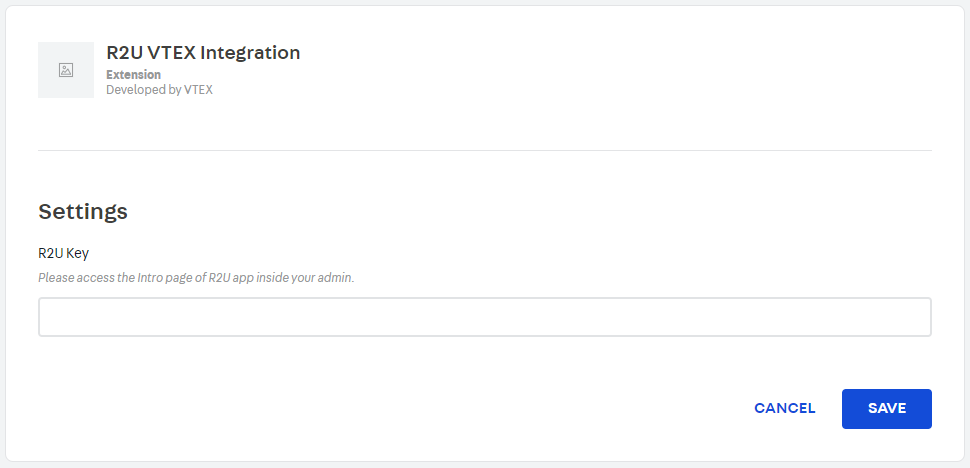
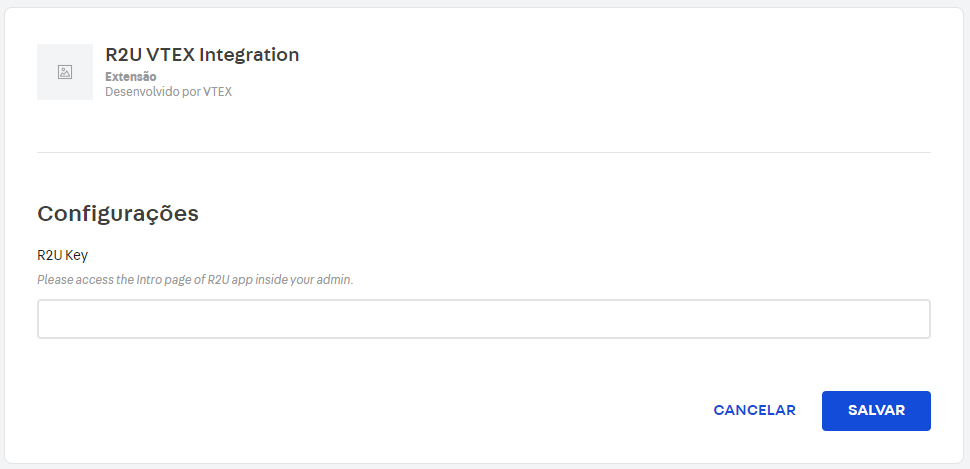
Add VTEX Guide

diff --git a/i18n/pt/docusaurus-plugin-content-docs/current/guides/vtex/getting-started.md b/i18n/pt/docusaurus-plugin-content-docs/current/guides/vtex/getting-started.md
@@ -1,19 +1,19 @@
 ---
-title: Getting started
+title: Introdução
 ---
 
-Once you add R2U VTEX Integration to your VTEX Store, you will be prompted with our settings page. You **don't** need to fill the R2U key in this page. It will be automatically filled later.
+Uma vez o App R2U VTEX Integration for adicionado a sua Loja VTEX, será solicitado, na página de Configurações, a sua R2U Key. **Não** preencha esse campo. Ele será preenchido automaticamente mais tarde.
 
-![](./assets/settings.png 'Settings')
+![](./assets/settings.png 'Configurações')
 
-On your admin page, a new tab R2U must have appeared on your sidebar, below the Products category.
+Na página de admin da sua loja, uma nova aba R2U deve ter aparecido na sua barra lateral, abaixo da categoria de produtos.
 
-![](./assets/sidebar.png 'Sidebar')
+![](./assets/sidebar.png 'Barra lateral')
 
-Access to the _Intro_ page and click the button _Let's Begin_. This action will initiate the process of the creation of your store at our side. You might have to wait a few moments before the conclusion of this procedure. After the process have finished, you should see a screen like this:
+Acesse a página _Intro_ e clique no botão _Vamos começar_. Isso irá iniciar o processo de criação da sua loja no nosso lado. Esse procedimento pode demorar alguns momentos. Depois de terminado, você deverá ver uma tela parecida com essa:
 
-![](./assets/success.png 'Success')
+![](./assets/success.png 'Sucesso')
 
-You can check your Settings page again and your R2U key will be there, automatically filled.
+É possível checar na página de Configurações de novo e sua chave R2U estará lá, preenchida automaticamente. 
 
 ![](./assets/r2u-key.png 'R2U Key')

diff --git a/i18n/pt/docusaurus-plugin-content-docs/current/guides/vtex/send-products.md b/i18n/pt/docusaurus-plugin-content-docs/current/guides/vtex/send-products.md
@@ -1,17 +1,17 @@
 ---
-title: Sending your products
+title: Enviando seus produtos
 ---
 
-On this page you can send your products to our team to develop the 3D model of the selected product. To go there, access the Products page on R2U App.
+Nessa página, é possível enviar seus produtos para o nosso time desenvolver o modelo 3D dos produtos selecionados. Para acessá-la, entre na página Produtos no App R2U.
 
-![](./assets/sidebar.png 'Sidebar')
+![](./assets/sidebar.png 'Barra lateral')
 
-On the _Send products_ Tab, can be seen every product of your store. Select the products wanted and click on _Send_ button. This will send your products along with some data needed to model the 3D asset. Keep in mind that this process take some time. 
+Na aba _Enviar produtos_, pode-se ver todos os produtos da sua loja. Selecione os produtos desejados e clique no botão _Send_. Isso irá enviar seus produtos juntamente com alguns dados necessários para modelá-lo em 3D. Tenha em mente que esse processo leva algum tempo.
 
-![](./assets/send-products.png 'Sending products')
+![](./assets/send-products.png 'Enviando produtos')
 
-Note that you will be prompted with a warning if you try to send a product with missing information we need.
+Note que um aviso será mostrado se forem enviados produtos com informações que precisamos.
 
-![](./assets/warning.png 'Warning')
+![](./assets/warning.png 'Aviso')
 
-If you already have the 3D model made by your company, please contact us. This process is still not fully developed on our VTEX App.
+Se a sua empresa já possuir o modelo 3D, por favor entre em contato. Esse procedimente ainda não foi desenvolvido completamente no nosso App VTEX.

diff --git a/i18n/pt/docusaurus-plugin-content-docs/current/guides/vtex/configuring-products.md b/i18n/pt/docusaurus-plugin-content-docs/current/guides/vtex/configuring-products.md
@@ -1,31 +1,31 @@
 ---
-title: Configuring your products
+title: Configurando seus produtos
 ---
 
 ## Importing our App
 
-Firstly you have to import our App to your store. On your `manifest.json` file, add the following dependency:
+Primeiramente, deve-se importar nosso App para a sua loja. No arquivo `manifest.json`, adicione a seguinte dependência:
 ```
 "r2ubr.r2u-vtex-integration": "0.x"
 ```
 
 ## Add our solutions to your product page
 
-To make our 3D Viewer and AR Experience Button to appear in your products page, you have to add some lines to your **products template json**.
+Para fazer nosso Visualizador 3D e o botão de Experiência RA aparecerem na sua página de produto, insira alguma linhas no arquivo de **template de produto json**.
 
-### 3D Viewer
+### Visualizador 3D
 ```
 "responsive-layout.desktop": {
   "children": ["r2u-model-viewer"]
 }
 ```
-Note that the Viewer 3D must be displayed only on the desktop.
+Observe que o visualizador 3D deve ser exibido somente em desktops.
 
 
-### AR Experience
+### Experiência RA
 ```
 "responsive-layout.phone": {
   "children": ["r2u-ar-button"]
 }
 ```
-Note that the AR button must be displayed only on the phone.
+Observe que o botão de RA deve ser exibido somente em dispositivos móveis.

diff --git a/i18n/pt/docusaurus-plugin-content-docs/current/guides/vtex/sent-products.md b/i18n/pt/docusaurus-plugin-content-docs/current/guides/vtex/sent-products.md
@@ -1,11 +1,11 @@
 ---
-title: Checking status
+title: Verificando o status
 ---
 
-On this page, you can check every product you sent us and its status. To go there, access the Products page on R2U App.
+Nessa página, é possível verificar todos os produtos que foram enviados para nós e seus estados. Para acessá-la, entre na página Produtos no App R2U.
 
-![](./assets/sidebar.png 'Sidebar')
+![](./assets/sidebar.png 'Barra lateral')
 
-On the _Sent products_ Tab, you can check if your product is already modeled or not.
+Na aba _Produtos enviados_, pode-se verificar se o produto já foi modelado ou não.
 
-![](./assets/sent-products.png 'Checking status')
+![](./assets/sent-products.png 'Verificando o status')
